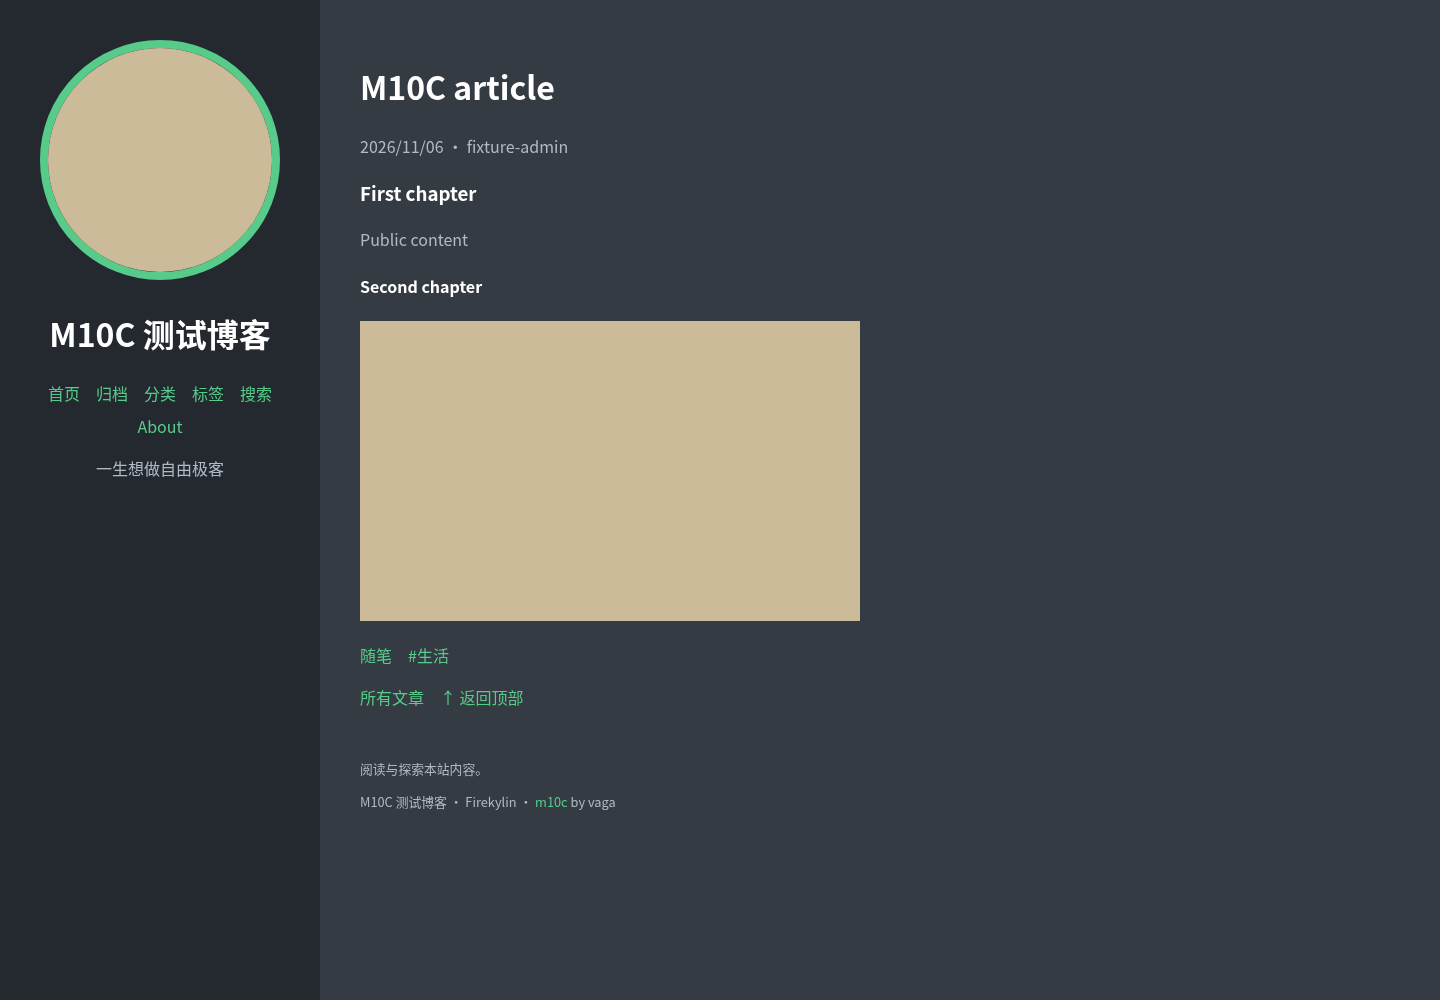
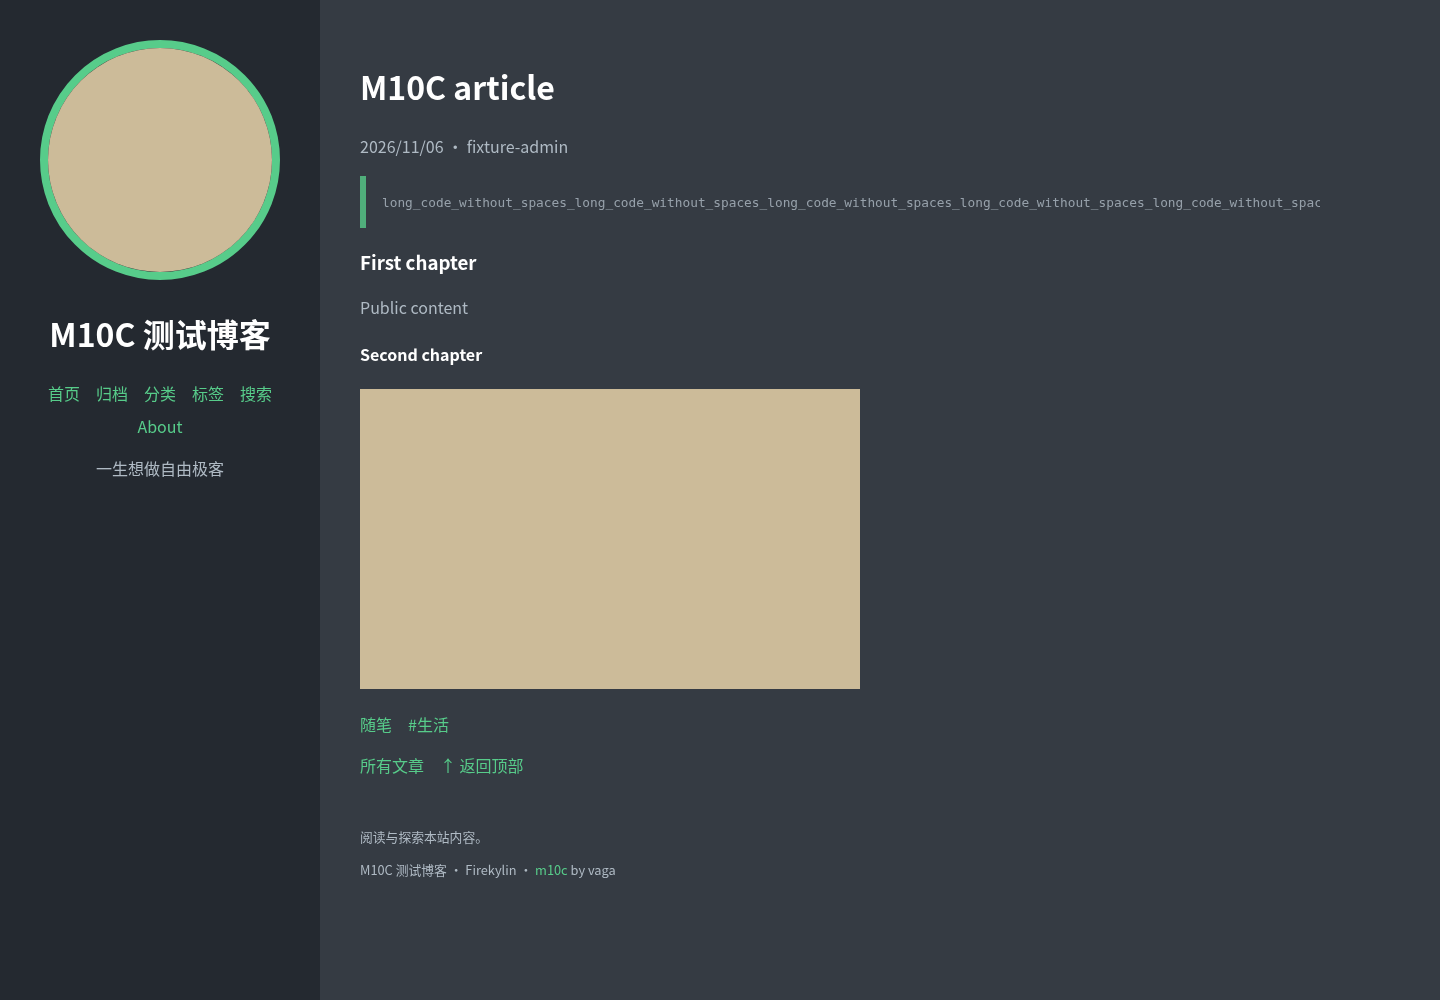
fix: render native attachment media and contain long code

diff --git a/test/m10c.test.js b/test/m10c.test.js
@@ -4,3 +4,5 @@ const {render,pages}=require('./port-fixture');
 for(const page of pages)test('m10c '+page+' renders populated and empty Widgets',async()=>{for(const empty of [false,true]){const html=await render('m10c',page,{empty});assert.match(html,/m10c/);assert(!html.includes('undefined'));}});
 test('m10c escapes titles, rejects active cover URLs, preserves protected body',async()=>{const html=await render('m10c','index',{hostile:true,config:{profileName:'<script>alert(1)</script>',backgroundImage:'javascript:alert(1)'}});assert(!html.includes('<img src=x onerror'));assert.match(html,/&lt;img/);assert(!html.includes('src="javascript:'));assert.match(await render('m10c','post',{protected:true}),/protectPassword/);});
 test('m10c delegates comments and keeps search filters in pagination',async()=>{assert(!(await render('m10c','post',{comments:false})).includes('id="comments"'));const html=await render('m10c','search',{request:'/search.html?keyword=a%26b'});assert.match(html,/keyword=a%26b&amp;page=2/);});
+
+test('m10c renders attachment media and rejects active file URLs',async()=>{const {context}=require('./port-fixture');const {Eta}=require('eta');const path=require('node:path');for(const [mime,element] of [['image/png','img'],['audio/mpeg','audio'],['video/mp4','video'],['application/pdf',null]]){const ctx=context('m10c','attachment');const archive=await ctx.widget('Widget_Archive');archive.stack[0].options={attachment:{mime,url:'/uploads/file',name:'Download file'}};const html=await new Eta({views:path.join(__dirname,'../packages/m10c'),varName:'firekylin'}).renderAsync('attachment',ctx);assert.match(html,/href="\/uploads\/file" download/);if(element)assert(html.includes('<'+element+' '));}const ctx=context('m10c','attachment');(await ctx.widget('Widget_Archive')).stack[0].options={attachment:{mime:'image/png',url:'javascript:alert(1)'}};const html=await new Eta({views:path.join(__dirname,'../packages/m10c'),varName:'firekylin'}).renderAsync('attachment',ctx);assert(!html.includes('javascript:'));});

diff --git a/packages/m10c/res/css/theme.css b/packages/m10c/res/css/theme.css
@@ -255,3 +255,6 @@ pre code {
 }
 /* Native Firekylin integration */
 body{overflow-wrap:anywhere}img{height:auto}iframe,video{max-width:100%}.app-header{max-height:100vh;overflow:auto}.app-header-avatar{max-width:100%;object-fit:cover;aspect-ratio:1;height:auto}.app-header-menu{display:flex;justify-content:center;gap:.5rem 1rem;flex-wrap:wrap}.post-actions,.tags{display:flex;gap:1rem;flex-wrap:wrap;margin:1rem 0}.prose table{display:block;overflow:auto}.pagination{display:flex;justify-content:space-between;margin:2rem 0}.pagination-item{padding:.6rem;border:1px solid #57cc8a}.skip{position:absolute;top:-100px}.skip:focus{top:0}input,button{font:inherit;max-width:100%;box-sizing:border-box}.footer{margin-top:3rem;font-size:.8rem}.post-content pre{white-space:pre;overflow:auto}:focus-visible{outline:2px solid #57cc8a;outline-offset:3px}@media(max-width:939px){.app-header{max-height:none}.app-container{padding:1.5rem}.app-header-avatar{width:10rem}}
+
+/* Native code and attachment containment. */
+.prose pre{max-width:100%;overflow-x:auto}.attachment-media img,.attachment-media audio,.attachment-media video{max-width:100%}
